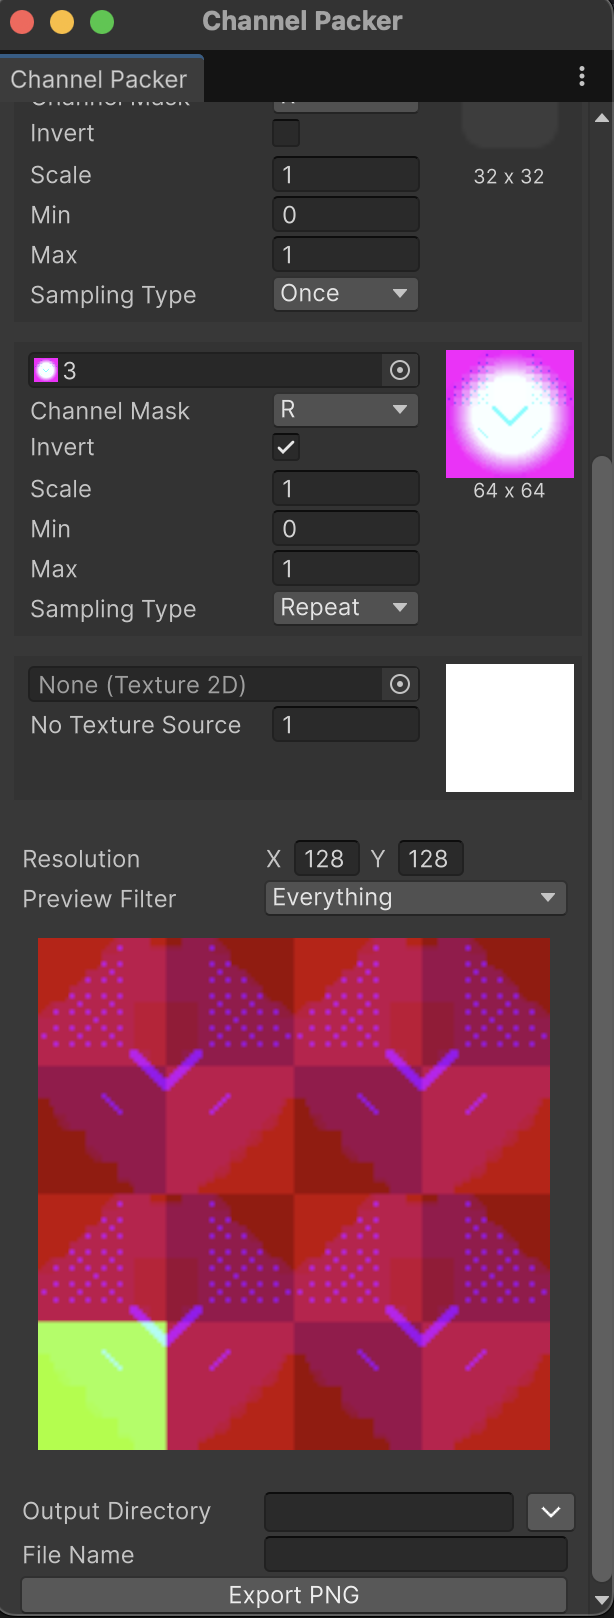
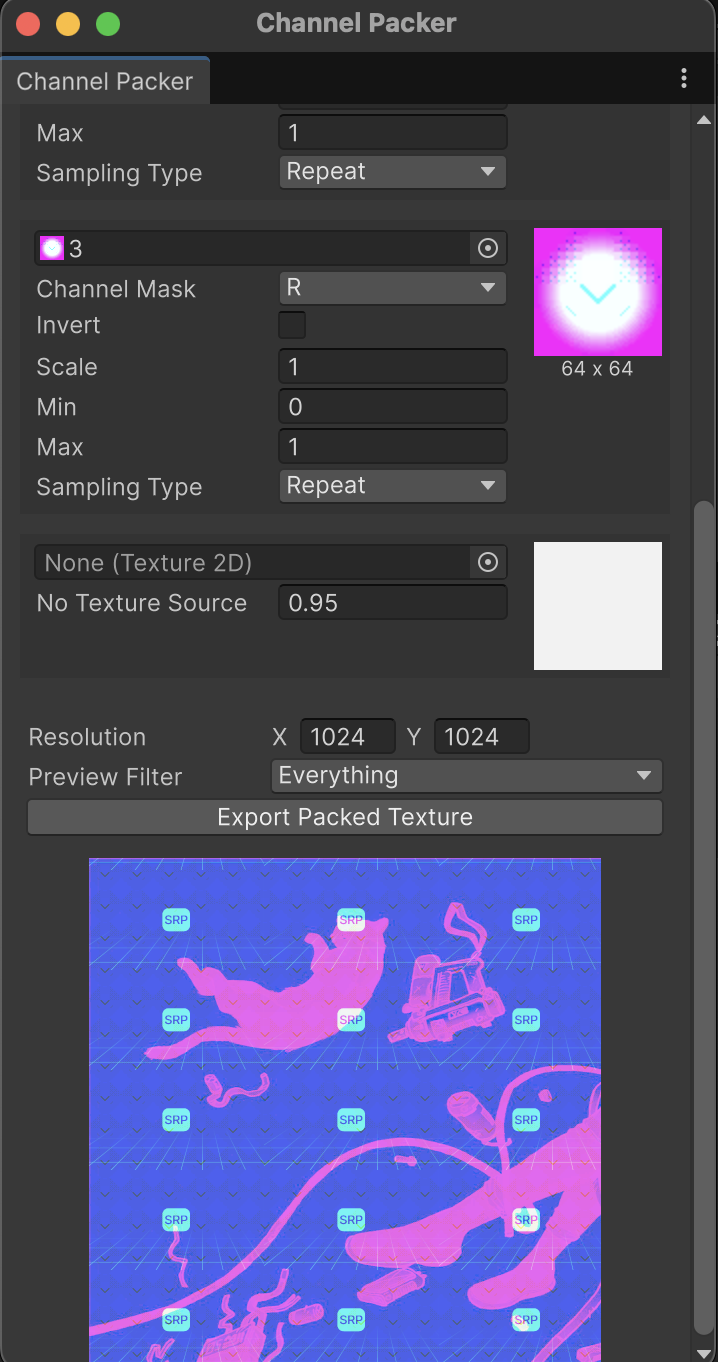
Test EditorUtility.SaveFilePanelInProject

diff --git a/Editor/ChannelPackerEditor.cs b/Editor/ChannelPackerEditor.cs
@@ -7,7 +7,6 @@ namespace AmeWorks.ChannelPacker.Editor
 {
     public class ChannelPackerEditor : EditorWindow
     {
-        private const string FILE_PICKER_ICON_PATH = "Packages/com.ameworks.channelpacker/Editor/Icons/FilePickerIcon.png";
         private const int MAX_RESOLUTION = 8192;
         private const int CHANNEL_COUNT = 4;
         private const float BASE_PADDING = 10.0f;
@@ -16,8 +15,8 @@ namespace AmeWorks.ChannelPacker.Editor
         private const float MIN_WINDOW_HEIGHT = 128 + BASE_PADDING * 2;
 
         private static readonly Color _backgroundColor = new (0.2f, 0.2f, 0.2f);
-        
-        private readonly ChannelPackerRTGenerator _renderTextureGenerator = new();
+
+        [SerializeField] private ChannelPackerRTGenerator _renderTextureGenerator;
         
         // Data
         private readonly float[] _channelDefaultValues = new float[CHANNEL_COUNT];
@@ -34,9 +33,6 @@ namespace AmeWorks.ChannelPacker.Editor
         private RenderTexture _resultRT;
         private RenderTexture _previewResultRT;
         private bool _isRTDirty;
-        
-        private string _outputDirectory = string.Empty;
-        private string _fileName = string.Empty;
         
         // Elements
         private readonly Label[] _channelTextureSizeLabels = new Label[CHANNEL_COUNT];
@@ -72,16 +68,20 @@ namespace AmeWorks.ChannelPacker.Editor
                 _channelMax, 
                 _channelTextures,
                 _samplingTypes,
-                _previewMasking
-            );
-            _renderTextureGenerator.RegenerateRenderTextures(ref _resultRT, ref _previewResultRT, _textureSize, RenderTextureFormat.ARGB32);
+                _previewMasking);
+            
+            _renderTextureGenerator.RegenerateRenderTextures(
+                ref _resultRT, 
+                ref _previewResultRT, 
+                _textureSize, 
+                RenderTextureFormat.ARGB32);
+            
             _previewResultImage.image = _previewResultRT;
             _isRTDirty = false;
         }
         
         private void Init()
         {
-            _renderTextureGenerator.Init();
             for (int i = 0; i < CHANNEL_COUNT; i++)
             {
                 _channelMasks[i] = ChannelMask.R;
@@ -303,49 +303,9 @@ namespace AmeWorks.ChannelPacker.Editor
                 _previewMasking = (ChannelMask)evt.newValue;
                 _isRTDirty = true;
             });
-            
-            VisualElement directoryPickerGroup = new VisualElement();
-            directoryPickerGroup.style.marginTop = BASE_PADDING * 2;
-            directoryPickerGroup.style.flexDirection = FlexDirection.Row;
-            directoryPickerGroup.style.minWidth = WINDOW_WIDTH - BASE_PADDING;
-            directoryPickerGroup.style.justifyContent = Justify.FlexStart;
-            directoryPickerGroup.style.flexGrow = 1;
-            
-            TextField outputDirectoryField = new TextField("Output Directory");
-            outputDirectoryField.style.flexGrow = 1;
-            outputDirectoryField.value = _outputDirectory;
-            outputDirectoryField.RegisterValueChangedCallback(evt =>
-            {
-                _outputDirectory = evt.newValue;
-            });
-            outputDirectoryField.style.minWidth = WINDOW_WIDTH - BASE_PADDING * 3 - 25;
-            
-            Texture2D filePickerTexture = (Texture2D)EditorGUIUtility.Load(FILE_PICKER_ICON_PATH);
-            Background filePickerBackground = Background.FromTexture2D(filePickerTexture);
-            Button outputDirectoryButton = new Button(filePickerBackground,() =>
-            {
-                _outputDirectory = EditorUtility.OpenFolderPanel("Select a folder", _outputDirectory, "");
-                if (!string.IsNullOrEmpty(_outputDirectory))
-                {
-                    outputDirectoryField.value = _outputDirectory;
-                }
-            });
-            outputDirectoryButton.style.maxWidth = 25;
-            directoryPickerGroup.Add(outputDirectoryField);
-            directoryPickerGroup.Add(outputDirectoryButton);
-            
-            TextField fileNameField = new TextField("File Name");
-            fileNameField.value = _fileName;
-            fileNameField.RegisterValueChangedCallback(evt =>
-            {
-                _fileName = evt.newValue;
-            });
-            
-            Button exportButton = new Button(() =>
-            {
-                _resultRT.TryExportToPNG(_textureSize, _outputDirectory, _fileName);
-            });
-            exportButton.text = "Export PNG";
+
+            Button exportButton = new Button(ExportPackedTexture);
+            exportButton.text = "Export Packed Texture";
             
             var previewResultImage = new Image 
             {
@@ -362,10 +322,18 @@ namespace AmeWorks.ChannelPacker.Editor
 
             parent.Add(textureSizeField);
             parent.Add(previewFlagsField);
-            parent.Add(previewResultImage);
-            parent.Add(directoryPickerGroup);
-            parent.Add(fileNameField);
             parent.Add(exportButton);
+            parent.Add(previewResultImage);
+        }
+
+        private void ExportPackedTexture()
+        {
+            var path = EditorUtility.SaveFilePanelInProject(
+                title: "Export Packed Texture", 
+                defaultName: "image", 
+                extension: "png", 
+                message: string.Empty);
+            _resultRT.TryExportToPNG(_textureSize, path);
         }
     }
 }

diff --git a/Editor/ChannelPackerRTGenerator.cs b/Editor/ChannelPackerRTGenerator.cs
@@ -1,16 +1,9 @@
-using UnityEditor;
 using UnityEngine;
 
 namespace AmeWorks.ChannelPacker.Editor
 {
-    public class ChannelPackerRTGenerator
+    public class ChannelPackerRTGenerator : ScriptableObject
     {
-        private const string PACK_TEXTURE_COMPUTE_SHADER_PATH 
-            = "Packages/com.ameworks.channelpacker/Editor/PackTexture.compute";
-        private const string MASKING_PREVIEW_FILTER_COMPUTE_SHADER_PATH 
-            = "Packages/com.ameworks.channelpacker/Editor/MaskingPreviewFilter.compute";
-        private const int MAIN_KERNEL_ID = 0;
-        
         private static readonly int _channelDataBufferShaderID = Shader.PropertyToID("channelDataBuffer");
         private static readonly int _inputShaderID = Shader.PropertyToID("input");
         private static readonly int _maskShaderID = Shader.PropertyToID("mask");
@@ -20,18 +13,12 @@ namespace AmeWorks.ChannelPacker.Editor
         private static readonly int _inputAShaderID = Shader.PropertyToID("inputA");
         private static readonly int _resultShaderID = Shader.PropertyToID("result");
         
-        private readonly ChannelData[] _channelDatas = new ChannelData[4];
-
-        private Texture2D[] _channelTextures;
-        private ComputeShader _packTextureCS;
-        private ComputeShader _maskingPreviewFilterCS;
-        private ChannelMask _previewMasking;
+        [SerializeField] private ComputeShader _packTextureCS;
+        [SerializeField] private ComputeShader _maskingPreviewFilterCS;
         
-        public void Init()
-        {
-            _maskingPreviewFilterCS = AssetDatabase.LoadAssetAtPath<ComputeShader>(MASKING_PREVIEW_FILTER_COMPUTE_SHADER_PATH);
-            _packTextureCS = AssetDatabase.LoadAssetAtPath<ComputeShader>(PACK_TEXTURE_COMPUTE_SHADER_PATH);
-        }
+        private readonly ChannelData[] _channelDatas = new ChannelData[4];
+        private Texture2D[] _channelTextures;
+        private ChannelMask _previewMasking;
         
         public void SetData(
             float[]         defaultValues, 
@@ -87,20 +74,20 @@ namespace AmeWorks.ChannelPacker.Editor
             var channelDataBuffer = new ComputeBuffer(4, sizeof(float) * 4 + sizeof(int) * 5);
             channelDataBuffer.SetData(_channelDatas);
             
-            _packTextureCS.SetBuffer(MAIN_KERNEL_ID, _channelDataBufferShaderID, channelDataBuffer);
-            _packTextureCS.SetTexture(MAIN_KERNEL_ID, _inputRShaderID, _channelTextures[0] ?? Texture2D.blackTexture);
-            _packTextureCS.SetTexture(MAIN_KERNEL_ID, _inputGShaderID, _channelTextures[1] ?? Texture2D.blackTexture);
-            _packTextureCS.SetTexture(MAIN_KERNEL_ID, _inputBShaderID, _channelTextures[2] ?? Texture2D.blackTexture);
-            _packTextureCS.SetTexture(MAIN_KERNEL_ID, _inputAShaderID, _channelTextures[3] ?? Texture2D.blackTexture);
-            _packTextureCS.SetTexture(MAIN_KERNEL_ID, _resultShaderID, resultRT);
-            _packTextureCS.Dispatch(MAIN_KERNEL_ID, size.x, size.y, 1);
-            
-            _maskingPreviewFilterCS.SetVector(_maskShaderID, _previewMasking.ToVector4());
-            _maskingPreviewFilterCS.SetTexture(MAIN_KERNEL_ID, _inputShaderID, resultRT);
-            _maskingPreviewFilterCS.SetTexture(MAIN_KERNEL_ID, _resultShaderID, previewResultRT);
-            _maskingPreviewFilterCS.Dispatch(MAIN_KERNEL_ID, size.x, size.y, 1);
+            _packTextureCS.SetBuffer(0, _channelDataBufferShaderID, channelDataBuffer);
+            _packTextureCS.SetTexture(0, _inputRShaderID, _channelTextures[0] ?? Texture2D.blackTexture);
+            _packTextureCS.SetTexture(0, _inputGShaderID, _channelTextures[1] ?? Texture2D.blackTexture);
+            _packTextureCS.SetTexture(0, _inputBShaderID, _channelTextures[2] ?? Texture2D.blackTexture);
+            _packTextureCS.SetTexture(0, _inputAShaderID, _channelTextures[3] ?? Texture2D.blackTexture);
+            _packTextureCS.SetTexture(0, _resultShaderID, resultRT);
+            _packTextureCS.Dispatch(0, size.x, size.y, 1);
             
             channelDataBuffer.Release();
+
+            _maskingPreviewFilterCS.SetVector(_maskShaderID, _previewMasking.ToVector4());
+            _maskingPreviewFilterCS.SetTexture(0, _inputShaderID, resultRT);
+            _maskingPreviewFilterCS.SetTexture(0, _resultShaderID, previewResultRT);
+            _maskingPreviewFilterCS.Dispatch(0, size.x, size.y, 1);
         }
     }
 }

diff --git a/Editor/RenderTextureExtensions.cs b/Editor/RenderTextureExtensions.cs
@@ -7,16 +7,9 @@ namespace AmeWorks.ChannelPacker.Editor
 {
     public static class RenderTextureExtensions
     {
-        public static bool TryExportToPNG(
-            this RenderTexture self, 
-            Vector2Int size, 
-            string directory,
-            string fileName)
+        public static bool TryExportToPNG(this RenderTexture self, Vector2Int size, string path)
         {
-            if (!Directory.Exists(directory) || string.IsNullOrEmpty(fileName))
-                return false;
-            
-            if (size.x <= 0 || size.y <= 0)
+            if (path.Length == 0 || size.x <= 0 || size.y <= 0)
                 return false;
 
             Texture2D resultTexture = new Texture2D(size.x, size.y, TextureFormat.ARGB32, false);
@@ -27,7 +20,6 @@ namespace AmeWorks.ChannelPacker.Editor
                 resultTexture.ReadPixels(new Rect(0, 0, size.x, size.y), 0, 0);
                 resultTexture.Apply();
                 byte[] bytes = resultTexture.EncodeToPNG();
-                string path = Path.Combine(directory, $"{fileName}.png");
                 File.WriteAllBytes(path, bytes);
             }
             catch (Exception e)
